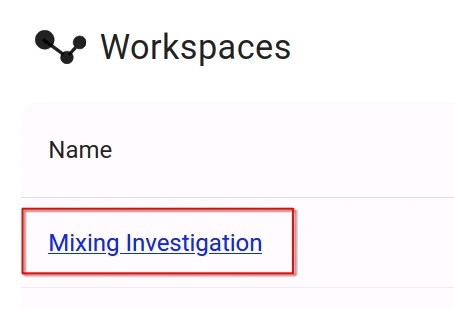
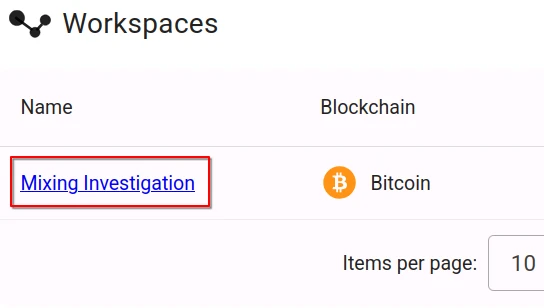
update workspaces example

diff --git a/docker/wikiapi/files/workspaces/example.md b/docker/wikiapi/files/workspaces/example.md
@@ -4,13 +4,17 @@
 ![page menu](img/workspace_example_page_menu.webp)
 
 ### 2. Create a new workspace
+Give the new workspace a name and choose the blockchain the workspace should operate on.
 ![new workspace](img/workspace_example_new_workspace.webp)
 
 ### 3. Navigate to the newly created workspace
+Click on the workspace name to navigate to the workspace editor. The list also shows the workspace's blockchain.
 ![workspace overview](img/workspace_example_workspace_overview.webp)
 
-### 4. Add a transaction in the workspace
[1 lines of base64/hex data omitted]
+### 4. Add a transaction to the workspace
[1 lines of base64/hex data omitted]
+
+The *Add Entities* dialog also allows to add multiple nodes at once. This can be achieved either by copy and pasting text containing multiple transaction hashes or addresses in the search bar, or by uploading a file containing multiple hashes.
 ![add transaction](img/workspace_example_add_transaction.webp)
 
 ### 5. Open the CoinJoin heuristic side bar
@@ -18,21 +22,35 @@ After clicking on the newly added transaction, the transaction side bar opens. H
 ![open coinjoin heuristic sidebar](img/workspace_example_open_coinjoin_heuristic_side_bar.webp)
 
 ### 6. Create a CoinJoin heuristic
-Via this side bar CoinJoin heuristics can be created. Certain heuristic types are only compatible with certain types of parent nodes. In this case we want to select *Reverse Lookup* and choose a lookback time of 12 hours. After clicking *Add* the heuristic will be added to the workspace.
+Via this side bar CoinJoin heuristics can be created. Certain heuristic types are only compatible with certain types of parent nodes. In this case we want to select *Reverse lookup by time* and choose a maximum duration of 12 hours. After clicking *Add* the heuristic will be added to the workspace.
+
+Depending on the chosen parameters, the execution of the heuristic might take a while. Usually it should only take a few seconds. After the heuristic has finished processing, it will show the number of found clusters on its node.
+
 ![coinjoin heuristic creation](img/workspace_example_coinjoin_heuristic_creation.webp)
 
-### 7. Extract CoinJoin heuristic results
-After the newly created heuristic is finished executing, clicking on it displays the heuristic details and its results. As its type is *Reverse Lookup* it will include [origin transactions](dash/originTransaction.md) which are potentially responsible for funding the [destination transaction](dash/destinationTransaction.md) `858...` .
+### 7. Combine two CoinJoin heuristics
+After the newly created heuristic is finished executing, clicking on it displays the heuristic details and its results. As its type is *Reverse Lookup* it will include [origin transactions](dash/originTransaction.md) which are potentially responsible for funding the [destination transaction](wasabi/destinationTransaction.md) `16c...` . In this case the heuristic returned roughly 1 900 clusters. 
 
[1 lines of base64/hex data omitted]
+To reduce this number, another heuristic can be applied on top. The new heuristic will use the results of the initial heuristic. In the heuristic details side bar, click *Add CoinJoin Heuristic* and add the *Reverse amount* heuristic. This should result in a graph like shown below. The *Reverse amount* heuristic limits the results to clusters which have more or equal funds as the inputs of the destination transaction. As the destination transaction spends over 10 BTC, this is a strong filter and brings the number of clusters down to 44. 
+
+Note: Due to ongoing address clustering the number found transactions or address clusters might change over time.
+
+![reverse amount heuristic](img/workspace_example_reverse_amount.webp)
+
+### 7. Extract CoinJoin heuristic results
+Click on the *Reverse amount* heuristic to show the heuristic details side bar. Select two the transactions in the table and click on *Add Entities*. The selected transactions will appear in the workspace afterwards. In this example two transactions, that belong to the same cluster (see cluster index in table), have been chosen. 
+
+Because both of the transactions are results of both of the heuristics, connections between them are shown in the workspace editor.
+
 ![coinjoin heuristic details](img/workspace_example_coinjoin_heuristic_details.webp)
 
-
 ### 8. Add an address cluster
-Click on transaction `4a4...` to open its transaction side bar. Locate input address `Xmp4FTCTXw78ANi9Hjx4VwqHVgwDZxtsvY` and click on it. A dialog will appear which allows choosing between opening the address page or adding the address to the workspace. Choose *Add to Workspace*.
+Click on one of the added transactions to open the transaction side bar. Locate an input address and click on it. A dialog will appear which allows choosing between opening the address page or adding the address to the workspace. Choose *Add to Workspace*.
 ![add address](img/workspace_example_add_address.webp)
 
 ## 9. View node connections
 Connections between nodes can carry important information. For example a connection between two address cluster reveals which transactions connect the clusters. Additionally, a connection between an address cluster and a CoinJoin heuristic shows which transactions connect the cluster to the heuristic.
 
-Click on the arrow connecting cluster `Xmp...` from the previous step with the heuristic to show the connection side bar.
+## 10. Explore
+
+Dakar allows viewing basic blockchain data, like transactions and addresses but also provides insights by analyzing CoinJoin graphs. Further explore features of Dakar by using workspaces, or discover more them in wiki.
